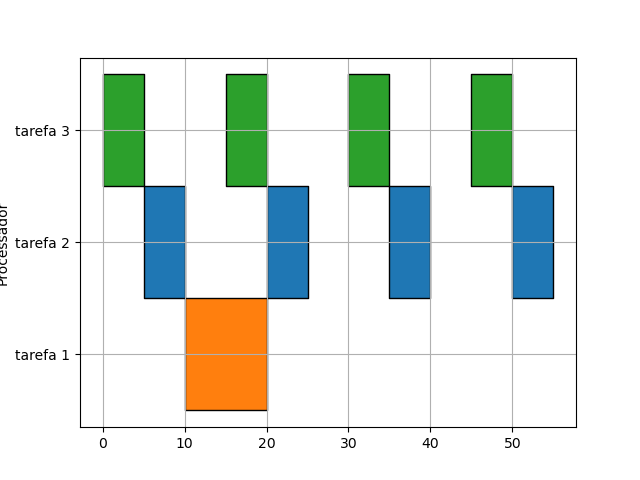
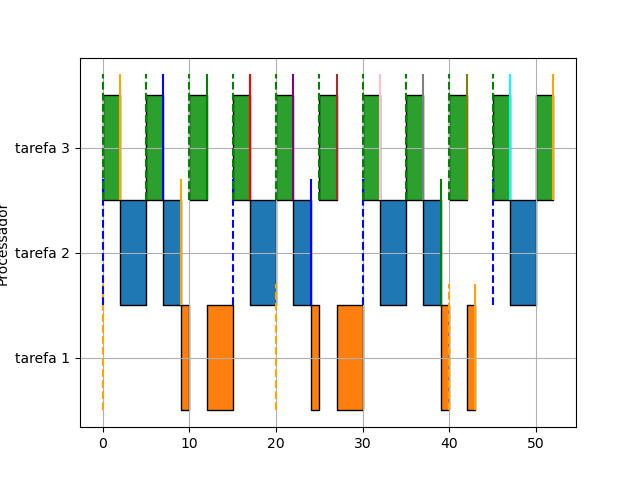
link main to RMSIM

diff --git a/gantt.py b/gantt.py
@@ -14,7 +14,7 @@ colors = [
 ]
 
 
-def plot_grant(values, deadlines):
+def plot_grant(values, deadlines, periods):
     fig, gnt = plt.subplots()
     gnt.set_ylabel("Processador")
     labels = []
@@ -32,7 +32,7 @@ def plot_grant(values, deadlines):
         gnt.broken_barh(
             tuple_list,
             ((idx + 1) * 10, 10),
-            facecolors=(f"tab:{colors[idx]}" if idx < len(colors) else "tab:blue"),
+            facecolors=(f"tab:{colors[idx%len(colors)]}"),
             edgecolors="black",
         )
 
@@ -41,12 +41,35 @@ def plot_grant(values, deadlines):
             gnt.vlines(
                 deadline,
                 (idx + 1) * 10,
-                (idx + 1) * 10 + 10,
-                colors=colors[idx2],
+                (idx + 1) * 10 + 12,
+                colors=colors[idx2 % len(colors)],
                 linestyles="solid",
             )
+
+    for idx, deadline in enumerate(periods):
+        i = 0
+        while deadline * i < 50:
+            print(deadline * i, (idx + 1) * 10, (idx + 1) * 10 + 12)
+            gnt.vlines(
+                deadline * i,
+                (idx + 1) * 10,
+                (idx + 1) * 10 + 12,
+                color=colors[idx % len(colors)],
+                linestyle="dashed",
+            )
+            i += 1
+
     plt.savefig("gantt1.png")
     return fig
+
+
+def plot_deadlines(periods):
+    for idx, deadline in enumerate(periods):
+        i = 0
+        while deadline * i < 50:
+            print(deadline * i, deadline)
+            plt.axvline(deadline * i, 0, 50, color="white", linestyle="dashed")
+            i += 1
 
 
 plot_grant(
@@ -68,4 +91,5 @@ plot_grant(
         ],
     ],
     [],
+    [3, 4, 5],
 )

diff --git a/main.py b/main.py
@@ -1,6 +1,8 @@
 import PySimpleGUI as sg
 from matplotlib.backends.backend_tkagg import FigureCanvasTkAgg
 import gantt
+from rm_sim import RMSim
+from common import Task
 
 
 def create_layout(tasks_length):
@@ -81,8 +83,8 @@ def create_row(row_counter):
     return row
 
 
-def plot_graph(window, values, deadlines):
-    fig = gantt.plot_grant(values, deadlines)
+def plot_graph(window, values, deadlines, periods):
+    fig = gantt.plot_grant(values, deadlines, periods)
 
     # clear the old plot
     if len(window["-CANVAS-"].TKCanvas.children) > 0:
@@ -128,17 +130,22 @@ def start():
 
         if event == "-RM-":
             print("RM")
-            tasks = get_task_values(values, row_counter)
-            print(tasks)
-            plot_graph(
-                window,
-                [
-                    [[10, 10]],
-                    [[5, 5], [20, 5], [35, 5], [50, 5]],
-                    [[0, 5], [15, 5], [30, 5], [45, 5]],
-                ],
-                [],
-            )
+            task_values = get_task_values(values, row_counter)
+
+            tasks: list[Task] = []
+            periods = []
+            for idx, task in enumerate(task_values):
+                tasks.append(Task(idx + 1, task[0], task[1], task[2]))
+                periods.append(task[0])
+            sim = RMSim(tasks)
+            sim.simulate(50)
+
+            tasks_to_plot = []
+            tasks_endings = []
+            for task in tasks:
+                tasks_to_plot.append(task.execution_chart)
+                tasks_endings.append(task.execution_endings)
+            plot_graph(window, tasks_to_plot, tasks_endings, periods)
 
         if event == "-EDF-":
             print("EDF")

diff --git a/common/__init__.py b/common/__init__.py
@@ -11,19 +11,24 @@ class Task:
         self.executed = False
         self.priority = priority
         self.execution_chart = []
+        self.execution_endings = []
 
     def __repr__(self) -> str:
         return f"Task{self.number}"
     
     def execute(self, start_time, execution_time: int) -> bool:
         self.remaining_time -= execution_time
-        if self.remaining_time == 0:
+        if self.remaining_time <= 0:
+            if start_time + execution_time > self.next_deadline:
+                print(f"task{self.number} failed to execute at {start_time + execution_time}, deadline was {self.next_deadline}")
             self.executed = True
+            self.execution_endings.append(start_time + execution_time)
         self.execution_gantt(start_time, execution_time)
     
     def start_task(self) -> None:
         self.next_start += self.period
         self.next_deadline += self.period
+        print(f"next deadline for task{self.number} is {self.next_deadline}")
         self.remaining_time = self.execution_time
         self.executed = False
 

diff --git a/app.py b/app.py
@@ -7,7 +7,7 @@ if __name__ == '__main__':
     tasks.append(Task(1, 20, 10, 3))
     tasks.append(Task(2, 15, 5, 4))
     tasks.append(Task(3, 5, 2, 5))
-    sim = RMSim(tasks)
+    sim = RMSim(tasks)  
     sim.simulate(50)
 
     for task in tasks:
